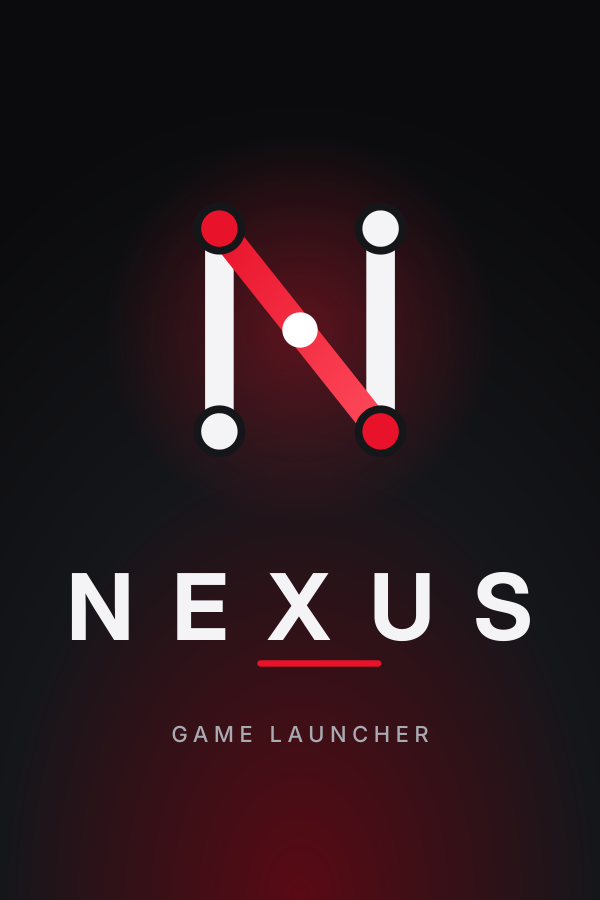
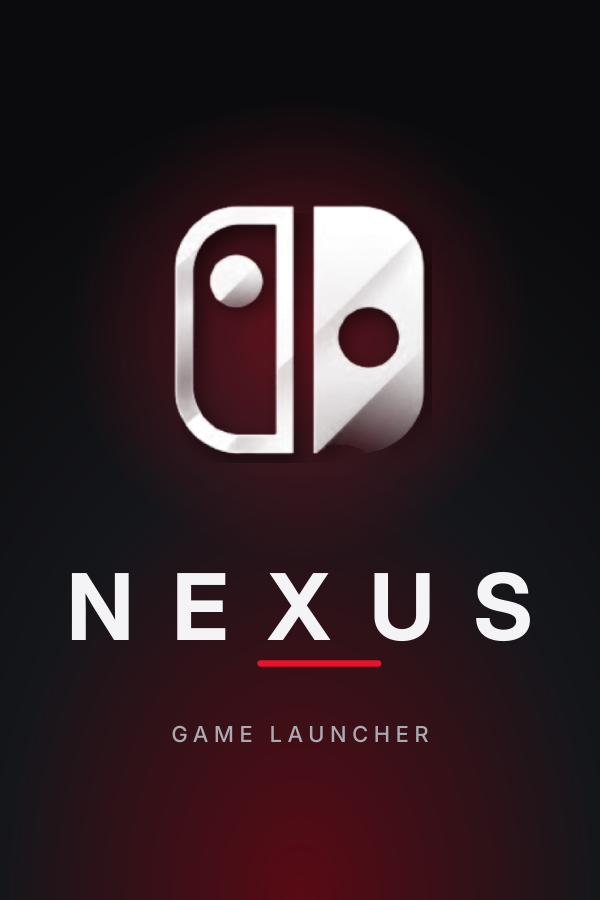
Steam artwork: NEXUS's Joy-Con emblem with the wordmark (owner's choice), same dark-and-red style
Claude-Session: https://claude.ai/code/session_01X7yw1ZJY9GYi2KYHfiXxvY

Changed region(s): [[0.27, 0.2178, 0.72, 0.5289]]

diff --git a/app/tools/branding/make_steam_art.py b/app/tools/branding/make_steam_art.py
@@ -1,0 +1,41 @@
+# Run: python3 make_steam_art.py <path to dist-base/Resources/Icons>  (needs rsvg-convert, Pillow, the Inter fonts); copy the PNGs to dist-base/Resources/Steam
+# NEXUS Steam artwork, 0.9.2 (owner's choice): NEXUS's own Joy-Con emblem (Resources/Icons/
+# emblem.png) with the NEXUS wordmark, on the dark background with the red glow.
+import subprocess, sys
+from PIL import Image, ImageFilter
+ICONS = sys.argv[1]
+RED="#E8132B"; BG1="#15161A"; BG2="#0B0B0D"
+DEFS=f'''<defs>
+<radialGradient id="bg" cx="50%" cy="100%" r="90%"><stop offset="0" stop-color="#5A0A14"/><stop offset="0.55" stop-color="{BG1}"/><stop offset="1" stop-color="{BG2}"/></radialGradient>
+<radialGradient id="glow" cx="50%" cy="50%" r="50%"><stop offset="0" stop-color="{RED}" stop-opacity="0.38"/><stop offset="1" stop-color="{RED}" stop-opacity="0"/></radialGradient></defs>'''
+def word(cx,y,size,spacing=0.42):
+    uw=size*1.35
+    return (f'<text x="{cx}" y="{y}" font-family="Inter Display" font-weight="700" font-size="{size}" fill="#F4F4F6" text-anchor="middle" letter-spacing="{size*spacing}">NEXUS</text>'
+            f'<rect x="{cx-uw/2+size*spacing/2}" y="{y+size*0.22}" width="{uw}" height="{size*0.07}" rx="{size*0.035}" fill="{RED}"/>')
+def sub(cx,y,size):
+    return f'<text x="{cx}" y="{y}" font-family="Inter" font-weight="500" font-size="{size}" fill="#A9AAB2" text-anchor="middle" letter-spacing="{size*0.25}">GAME LAUNCHER</text>'
+def render(name,w,h,body,bg=True,glows=()):
+    g="".join(f'<circle cx="{x}" cy="{y}" r="{r}" fill="url(#glow)"/>' for x,y,r in glows)
+    b=f'<rect width="{w}" height="{h}" fill="url(#bg)"/>' if bg else ''
+    open(name+".svg","w").write(f'<svg xmlns="http://www.w3.org/2000/svg" width="{w}" height="{h}" viewBox="0 0 {w} {h}">{DEFS}{b}{g}{body}</svg>')
+    subprocess.run(["rsvg-convert","-w",str(w),"-h",str(h),name+".svg","-o",name+".png"],check=True)
+    return Image.open(name+".png").convert("RGBA")
+emb=Image.open(f"{ICONS}/emblem.png").convert("RGBA").crop(Image.open(f"{ICONS}/emblem.png").getbbox())
+def paste(im,cx,cy,height):
+    e=emb.resize((round(emb.width*height/emb.height),height),Image.LANCZOS)
+    # soft shadow for depth
+    sh=Image.new("RGBA",e.size,(0,0,0,0)); sh.putalpha(e.getchannel("A").point(lambda a:a*0.55))
+    sh=sh.filter(ImageFilter.GaussianBlur(height/30))
+    im.alpha_composite(sh,(round(cx-e.width/2+height/40),round(cy-e.height/2+height/30)))
+    im.alpha_composite(e,(round(cx-e.width/2),round(cy-e.height/2)))
+    return im
+out={}
+out["capsule"]=paste(render("capsule",600,900,word(300,640,92)+sub(300,742,22),glows=[(300,330,230)]),300,330,250)
+out["wide"]=paste(render("wide",920,430,word(620,245,84)+sub(620,330,18),glows=[(240,215,170)]),240,215,190)
+out["hero"]=paste(render("hero",1920,620,"",glows=[(1500,310,300)]),1500,310,300)
+out["logo"]=paste(render("logo",1280,720,word(770,405,118),bg=False),220,360,250)
+icon=Image.open(f"{ICONS}/app-icon-512.png").convert("RGBA").resize((256,256),Image.LANCZOS)
+out["icon"]=icon
+for k,v in out.items():
+    v.save(k+".png")
+print("ok")

diff --git a/docs/releases/drafts/v0.9.2.md b/docs/releases/drafts/v0.9.2.md
@@ -10,7 +10,7 @@
 - **Texture quality** (*Graphics*, also per game): High, Medium or Low. High is the default; games you already played keep Medium, as they ran before.
 - **Ocarina of Time:** a *Full resolution* switch (*game settings › Frame Rate & Performance*) — off lets the game lower its own resolution when the graphics fall behind, which may help on the Steam Deck.
 - **Frame generation:** the built-in method (Lichii Optical Flow) is newer and sharper; it works on any Vulkan graphics, the Steam Deck included. It makes motion smoother, not the game faster.
-- **New Steam artwork** for NEXUS in Gaming Mode, kept up to date by NEXUS after updates; NEXUS can point its Steam entry at a new version instead of adding a second one.
+- **New Steam artwork** for NEXUS in Gaming Mode (the Joy-Con emblem with the NEXUS wordmark), kept up to date by NEXUS after updates; NEXUS can point its Steam entry at a new version instead of adding a second one.
 
 ## New in 0.8.1
 

diff --git a/CHANGELOG.md b/CHANGELOG.md
@@ -26,7 +26,7 @@ The project is in preview. Releases are numbered from **0.0.0**; the first inten
 - **Frame generation:** the built-in method is now Lichii Optical Flow with Lichii's newer
   coarse-to-fine matcher (#1633, #2386); it runs on any Vulkan GPU, the Steam Deck included.
 - **Steam Deck artwork:** new NEXUS artwork for Steam (library tile, wide tile, header, logo,
-  icon) with an original emblem; NEXUS replaces artwork it put there earlier at every start
+  icon) with NEXUS's Joy-Con emblem and wordmark on the dark-and-red background; NEXUS replaces artwork it put there earlier at every start
   (never the user's own), and can point its Steam entry at a new version's AppImage instead of
   leaving a broken entry or making a second one.
 - Research: frame generation (Lichii, Eglantine), graphics quality, Android feasibility.
